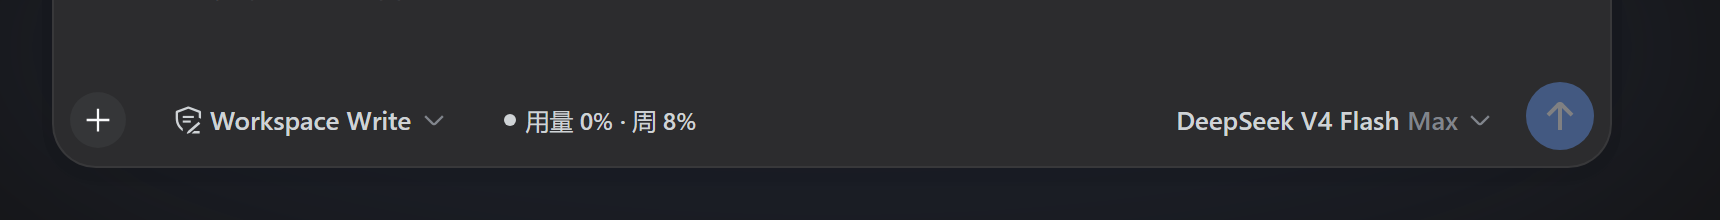
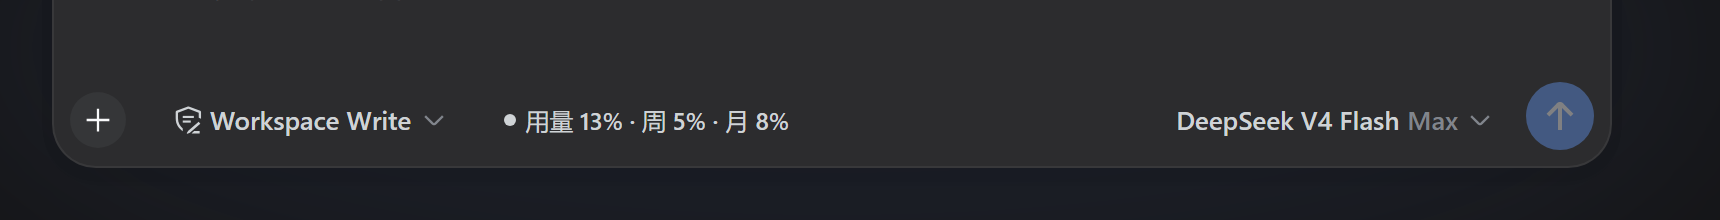
feat: show monthly percent on the badge, hover shows reset countdowns only
- badge label now displays rolling/weekly/monthly; the hover tooltip no
  longer repeats the percents and shows only the reset countdowns
- bump to 0.1.2; include assets/ in the published package and refresh the
  README screenshots

Changed region(s): [[0.339, 0.4909, 0.4622, 0.6]]

diff --git a/src/client.js b/src/client.js
@@ -6,7 +6,7 @@
  * Watches the active session's model selection; while the provider is
  * `opencode-go`, renders a usage badge into the composer's left tool row
  * (`conversation.input.left`) and polls the host `usageBadge` Remote every
- * 10 minutes (click to refresh immediately; hovering shows monthly percent +
+ * 10 minutes (click to refresh immediately; hovering shows the three windows'
  * reset countdowns). Failed polls fall back to the last successful report
  * (marked as cached), so the badge never flickers empty.
  *
@@ -20,8 +20,7 @@ const React = require("react");
 const NS = "opencode-usage-badge";
 
 const zh = {
-  badge: "用量 {rolling}% · 周 {weekly}%",
-  badgeTitle: "用量：滚动 {rolling}% · 周 {weekly}% · 月 {monthly}%",
+  badge: "用量 {rolling}% · 周 {weekly}% · 月 {monthly}%",
   badgeError: "用量获取失败：{message}",
   reload: "点击刷新",
   resetAll: "重置：滚动 {rolling} · 周 {weekly} · 月 {monthly}",
@@ -37,8 +36,7 @@ const zh = {
 };
 
 const en = {
-  badge: "Usage {rolling}% · weekly {weekly}%",
-  badgeTitle: "Usage: rolling {rolling}% · weekly {weekly}% · monthly {monthly}%",
+  badge: "Usage {rolling}% · weekly {weekly}% · monthly {monthly}%",
   badgeError: "Usage fetch failed: {message}",
   reload: "Click to refresh",
   resetAll: "Reset: rolling {rolling} · weekly {weekly} · monthly {monthly}",
@@ -323,7 +321,7 @@ function UsageBadge(props) {
   };
   const stale = usage !== null && usage.stale === true;
   const title = usage !== null
-    ? fmt("badgeTitle", values) + "\n" + fmt("resetAll", resetValues) + (stale ? "\n" + t("staleSuffix") : "")
+    ? fmt("resetAll", resetValues) + (stale ? "\n" + t("staleSuffix") : "")
     : fmt("reload", {});
   const label = fmt("badge", values);
   return React.createElement(

diff --git a/lib/client.js b/lib/client.js
@@ -5,8 +5,7 @@ window.__ModuleLoader__.load({ id: 'opencode-usage-badge', factory: (require) =>
 var React = require("react");
 var NS = "opencode-usage-badge";
 var zh = {
-  badge: "\u7528\u91CF {rolling}% \xB7 \u5468 {weekly}%",
-  badgeTitle: "\u7528\u91CF\uFF1A\u6EDA\u52A8 {rolling}% \xB7 \u5468 {weekly}% \xB7 \u6708 {monthly}%",
+  badge: "\u7528\u91CF {rolling}% \xB7 \u5468 {weekly}% \xB7 \u6708 {monthly}%",
   badgeError: "\u7528\u91CF\u83B7\u53D6\u5931\u8D25\uFF1A{message}",
   reload: "\u70B9\u51FB\u5237\u65B0",
   resetAll: "\u91CD\u7F6E\uFF1A\u6EDA\u52A8 {rolling} \xB7 \u5468 {weekly} \xB7 \u6708 {monthly}",
@@ -21,8 +20,7 @@ var zh = {
   staleSuffix: "\uFF08\u7F13\u5B58\u6570\u636E\uFF0C\u6765\u81EA\u4E0A\u6B21\u6210\u529F\u83B7\u53D6\uFF09"
 };
 var en = {
-  badge: "Usage {rolling}% \xB7 weekly {weekly}%",
-  badgeTitle: "Usage: rolling {rolling}% \xB7 weekly {weekly}% \xB7 monthly {monthly}%",
+  badge: "Usage {rolling}% \xB7 weekly {weekly}% \xB7 monthly {monthly}%",
   badgeError: "Usage fetch failed: {message}",
   reload: "Click to refresh",
   resetAll: "Reset: rolling {rolling} \xB7 weekly {weekly} \xB7 monthly {monthly}",
@@ -263,7 +261,7 @@ function UsageBadge(props) {
     monthly: usage !== null ? countdownTextOf(resetsAtOf(usage, "monthly"), now, t, fmt) ?? "?" : "?"
   };
   const stale = usage !== null && usage.stale === true;
-  const title = usage !== null ? fmt("badgeTitle", values) + "\n" + fmt("resetAll", resetValues) + (stale ? "\n" + t("staleSuffix") : "") : fmt("reload", {});
+  const title = usage !== null ? fmt("resetAll", resetValues) + (stale ? "\n" + t("staleSuffix") : "") : fmt("reload", {});
   const label = fmt("badge", values);
   return React.createElement(
     "button",

diff --git a/README.md b/README.md
@@ -8,11 +8,11 @@
 
 ![用量徽章显示在输入框工具行（模型选择器左侧）](assets/screenshot.png)
 
-徽章显示在输入框工具行、模型选择器左侧：`● 用量 {滚动}% · 周 {周}%`。点击徽章立即刷新，每 10 分钟自动轮询。
+徽章显示在输入框工具行、模型选择器左侧：`● 用量 {滚动}% · 周 {周}% · 月 {月}%`。点击徽章立即刷新，每 10 分钟自动轮询。
 
-![悬停徽章显示三个时间窗用量与重置倒计时](assets/tooltip.png)
+![悬停徽章显示三个窗口的重置倒计时](assets/tooltip.png)
 
-悬停徽章可查看完整详情：`用量：滚动 x% · 周 y% · 月 z%`，以及滚动 / 周 / 月三个窗口的重置倒计时（如 `2天14小时`、`28天16小时`）。
+悬停徽章显示滚动 / 周 / 月三个窗口的重置倒计时（如 `4小时7分`、`6天22小时`），用量百分比已在徽章本体展示，不再重复。
 
 ## 功能特性
 
@@ -20,7 +20,7 @@
   1. 当前会话模型的 **provider id 为 `opencode-go`**（可通过配置 `providerId` 修改）
   2. 或该 provider 在模型配置里声明的 **baseURL 指向 `https://opencode.ai/zen/go`**（可通过配置 `baseUrlPrefix` 修改；host 端判定，兼容任意 provider 键名）
 - **自动轮询**：每 10 分钟拉取一次用量，点击徽章立即刷新
-- **悬停提示**：三个时间窗的用量百分比 + 各窗口的重置倒计时
+- **悬停提示**：滚动 / 周 / 月三个窗口的重置倒计时（用量已在徽章本体显示）
 - **颜色预警**：`<70%` 正常 · `70–89%` 橙色 · `≥90%` 红色
 - **断网兜底**：请求失败自动重试（3 次），仍失败时回退显示上次成功数据并标注"缓存数据"
 
@@ -28,7 +28,7 @@
 
 ```sh
 # 本地 tarball（构建产物）
-dsh plugin --profile web add ./opencode-usage-badge-0.1.1.tgz
+dsh plugin --profile web add ./opencode-usage-badge-0.1.2.tgz
 
 # 发布到 npm 后
 dsh plugin --profile web add opencode-usage-badge
